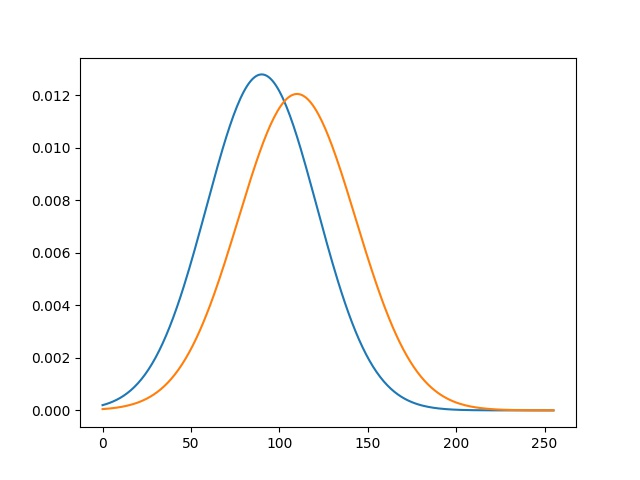
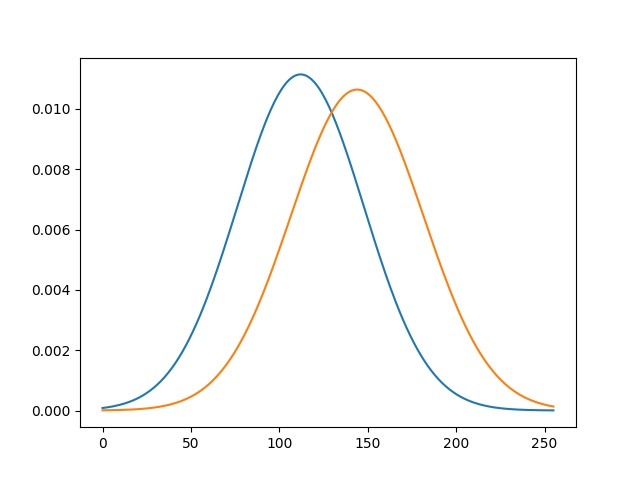
modified \mu \sigma for better results, generated output images

diff --git a/generate_synthetic.py b/generate_synthetic.py
@@ -3,8 +3,8 @@ import os
 import numpy as np
 
 
-img = np.zeros((512, 512))
-mask = np.zeros((512, 512))
+img = np.zeros((512, 512),dtype=np.uint8)
+mask = np.zeros((512, 512),dtype=np.uint8)
 
 x1 = y1 = 128
 x2 = y2 = 128+256 # thresh
@@ -16,15 +16,10 @@ mask[x1:x2+1, y1:y2+1] = 255
 ht = mask.shape[0]
 wd = mask.shape[1]
 
-for id, (mu_back, mu_fore) in enumerate([(80,120), (130,140), (60,70)]):
-    for i in range(ht):
-        for j in range(wd):
-            if mask[i][j] == 0:
-                # back
-                img[i][j] = np.random.normal(mu_back, sigma_back)
-            else:
-                # fore
-                img[i][j] = np.random.normal(mu_fore, sigma_fore)
+for id, (mu_back, mu_fore) in enumerate([(112,144), (154,186), (70,102)]):
+    img = np.random.default_rng(seed = 99).normal(mu_back,sigma_back,size=(512,512))
+    np.putmask(img, mask == 255,np.random.default_rng(
+        seed=99).normal(mu_fore, sigma_fore, size=(x2-x1, y2-y1)))
     cv.imwrite("input_synthetic/image_" + str(id) + ".jpg", img)
     cv.imwrite("mask_synthetic/image_" + str(id) + ".jpg", mask)
 
